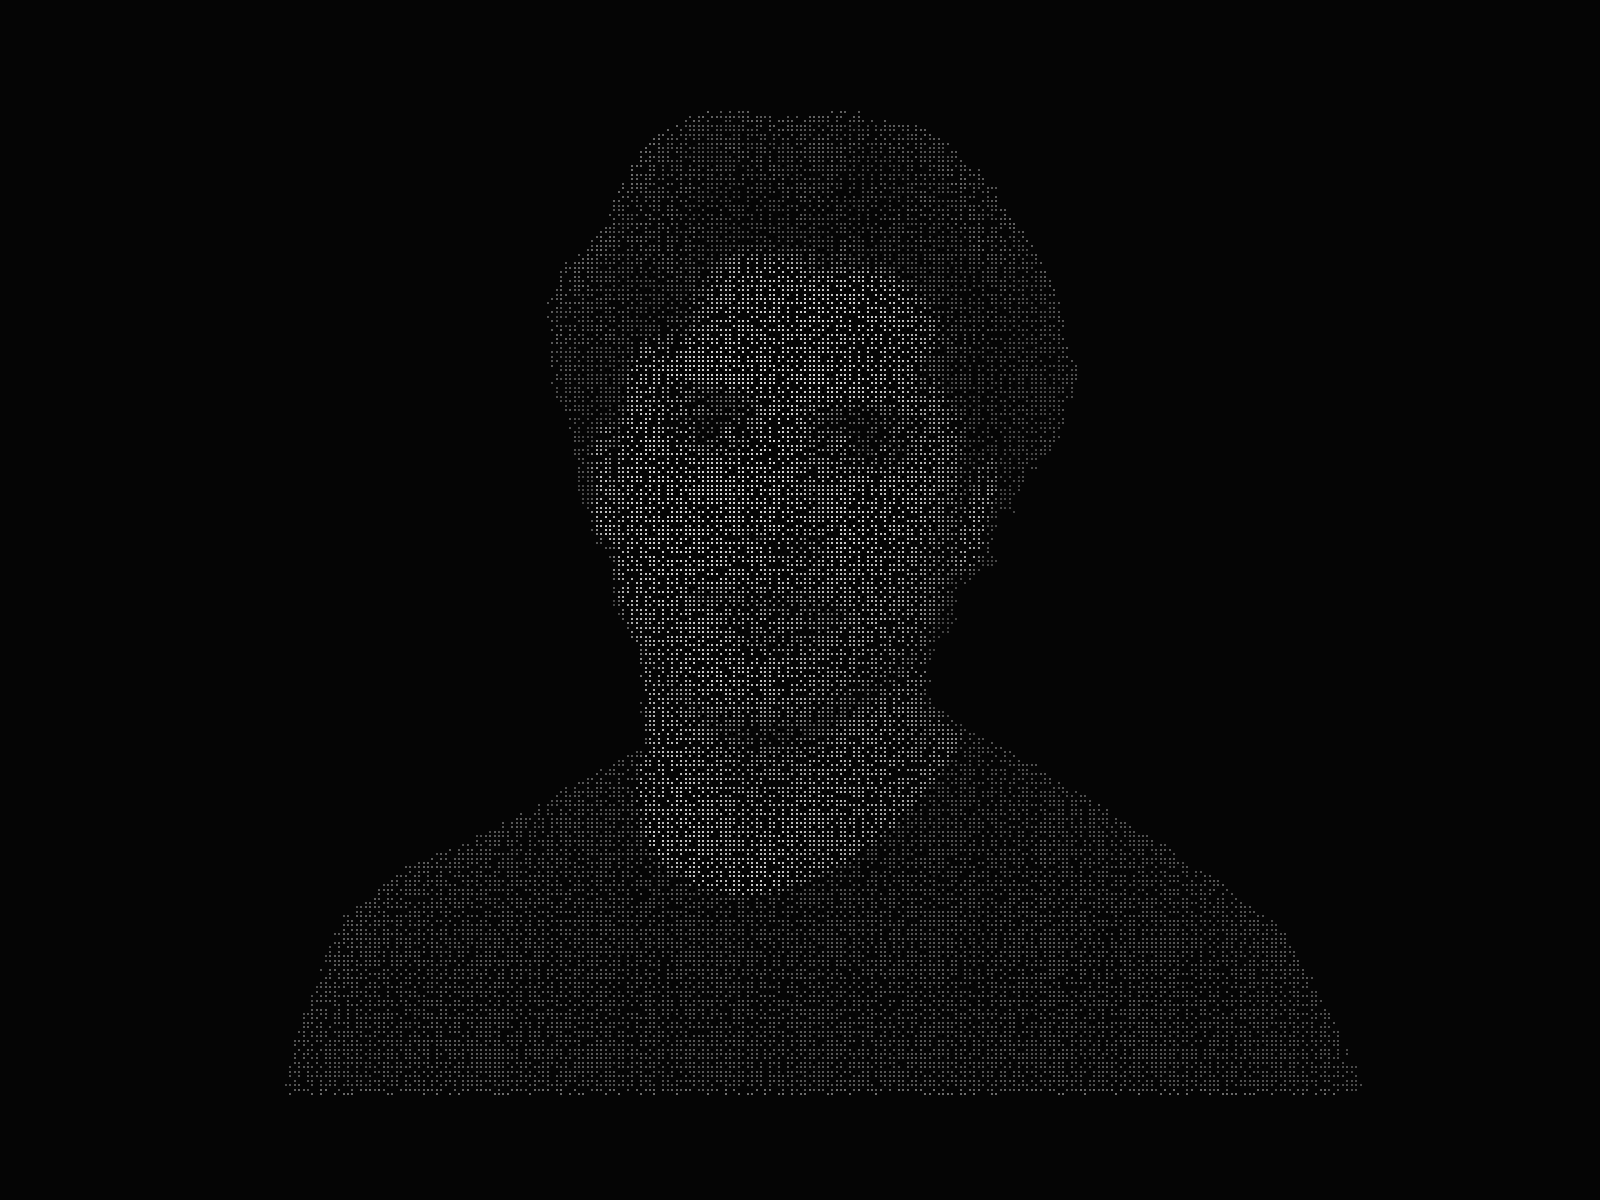
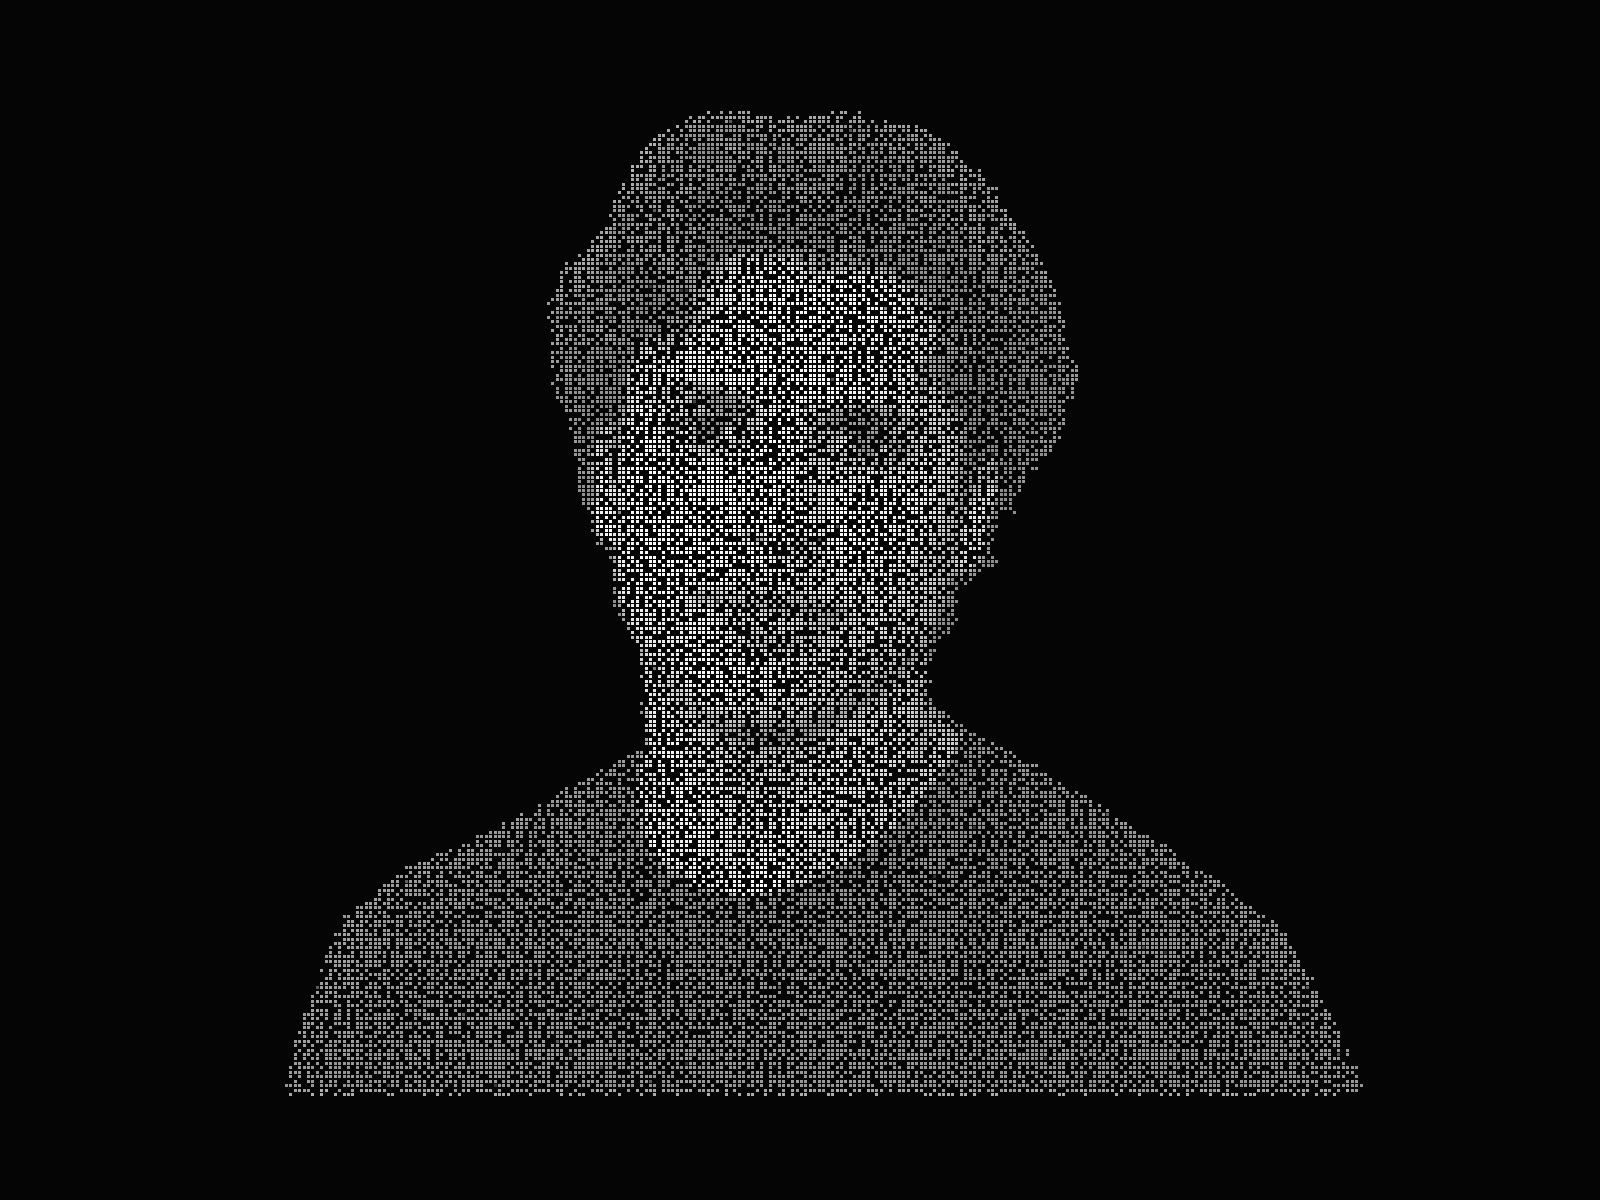
fix: brighter figure poster and previews

Changed region(s): [[0.1875, 0.0925, 0.8438, 0.925]]

diff --git a/scripts/figure/build-points.py b/scripts/figure/build-points.py
@@ -36,6 +36,9 @@ BIN_CAP = 250 * 1024
 POSTER_CAP = 120 * 1024
 POSTER_SIZE = (1600, 1200)
 POSTER_BG = (5, 5, 5)    # #050505
+POINT_PX = 3             # square size at 1600 px width
+RENDER_FLOOR = (0.55, 0.30, 0.40)   # front, back, interior
+RENDER_GAIN = (0.45, 0.20, 0.30)
 
 
 def load_cutout(path):
@@ -137,11 +140,12 @@ def place_points(mask, lum, depth, count, rng):
     z = depth[iy, ix]
     l = lum[iy, ix]
 
-    front = np.stack([sx, sy, z, l], axis=1)
-    back = np.stack([sx, sy, -z, BACK_LUM * l], axis=1)
+    # Columns: x, y, z, stored luminance, photo luminance (for the renders).
+    front = np.stack([sx, sy, z, l, l], axis=1)
+    back = np.stack([sx, sy, -z, BACK_LUM * l, l], axis=1)
     pick = rng.random(len(sx)) < INTERIOR_CHANCE
     zi = (rng.random(pick.sum()) * 2.0 - 1.0) * z[pick]
-    interior = np.stack([sx[pick], sy[pick], zi, INTERIOR_LUM * l[pick]], axis=1)
+    interior = np.stack([sx[pick], sy[pick], zi, INTERIOR_LUM * l[pick], l[pick]], axis=1)
 
     kinds = np.concatenate([np.zeros(len(front), np.int8), np.ones(len(back), np.int8),
                             np.full(len(interior), 2, np.int8)])
@@ -184,8 +188,15 @@ def encode(xyz, lum):
     return MAGIC + struct.pack("<I", len(q)) + rec.tobytes()
 
 
-def render(xyz, lum, yaw_deg, size=POSTER_SIZE):
-    """Orthographic view, grey 2 px squares painted back to front."""
+def render(xyz, photo_lum, kinds, yaw_deg, size=POSTER_SIZE):
+    """Orthographic view, grey squares painted back to front.
+
+    Brightness per kind, from the photo luminance l in 0..1:
+      front shell  0.55 + 0.45 * l   (no depth dimming, so the face reads on black)
+      back shell   0.30 + 0.20 * l
+      interior     0.40 + 0.30 * l
+    Back and interior points are also dimmed with depth.
+    """
     w, h = size
     a = np.radians(yaw_deg)
     x = xyz[:, 0] * np.cos(a) + xyz[:, 2] * np.sin(a)
@@ -194,13 +205,17 @@ def render(xyz, lum, yaw_deg, size=POSTER_SIZE):
     unit = 0.47 * h                                   # 1.9 units fill ~89% of the height
     px = np.round(w / 2 + x * unit).astype(np.int32)
     py = np.round(h / 2 - y * unit).astype(np.int32)
-    depth = 0.45 + 0.55 * (z + 1.0) / 2.0             # nearer is brighter
-    grey = (0.35 + 0.65 * lum / 255.0) * depth * 255.0
+    l = photo_lum / 255.0
+    floor = np.array(RENDER_FLOOR)[kinds]
+    gain = np.array(RENDER_GAIN)[kinds]
+    depth = np.where(kinds == 0, 1.0, 0.6 + 0.4 * (z + 1.0) / 2.0)
+    grey = (floor + gain * l) * depth * 255.0
     order = np.argsort(z, kind="stable")              # far first
     px, py, grey = px[order], py[order], grey[order]
+    square = max(1, round(POINT_PX * w / POSTER_SIZE[0]))
     canvas = np.full((h, w), float(POSTER_BG[0]), dtype=np.float32)
-    for dy in (0, 1):
-        for dx in (0, 1):
+    for dy in range(square):
+        for dx in range(square):
             cx, cy = px + dx, py + dy
             ok = np.nonzero((cx >= 0) & (cx < w) & (cy >= 0) & (cy < h))[0]
             flat = cy[ok] * w + cx[ok]
@@ -209,7 +224,7 @@ def render(xyz, lum, yaw_deg, size=POSTER_SIZE):
             rev = flat[::-1]
             _, first = np.unique(rev, return_index=True)
             winners = ok[::-1][first]
-            canvas.flat[flat[::-1][first]] = grey[winners]
+            canvas.flat[rev[first]] = grey[winners]
     g = np.clip(canvas, 0, 255).astype(np.uint8)
     return Image.fromarray(np.stack([g, g, g], axis=-1), "RGB")
 
@@ -261,16 +276,16 @@ def main(argv):
     # Render from the quantised values so the poster matches what ships.
     q = np.frombuffer(data, dtype=np.uint8, offset=8).reshape(-1, 4)
     qxyz = q[:, :3].view(np.int8).astype(np.float32) / 127.0
-    qlum = q[:, 3].astype(np.float32)
+    photo_lum = pts[:, 4]
 
-    poster = render(qxyz, qlum, 0)
+    poster = render(qxyz, photo_lum, kinds, 0)
     Path(args.poster).parent.mkdir(parents=True, exist_ok=True)
     poster_mode = save_poster(poster, args.poster)
     if args.previews:
         out = Path(args.previews)
         out.mkdir(parents=True, exist_ok=True)
         for yaw in (0, 35, 90):
-            render(qxyz, qlum, yaw).save(out / f"bust-{yaw}.png")
+            render(qxyz, photo_lum, kinds, yaw).save(out / f"bust-{yaw}.png")
 
     poster_size = Path(args.poster).stat().st_size
     if poster_size > POSTER_CAP:
